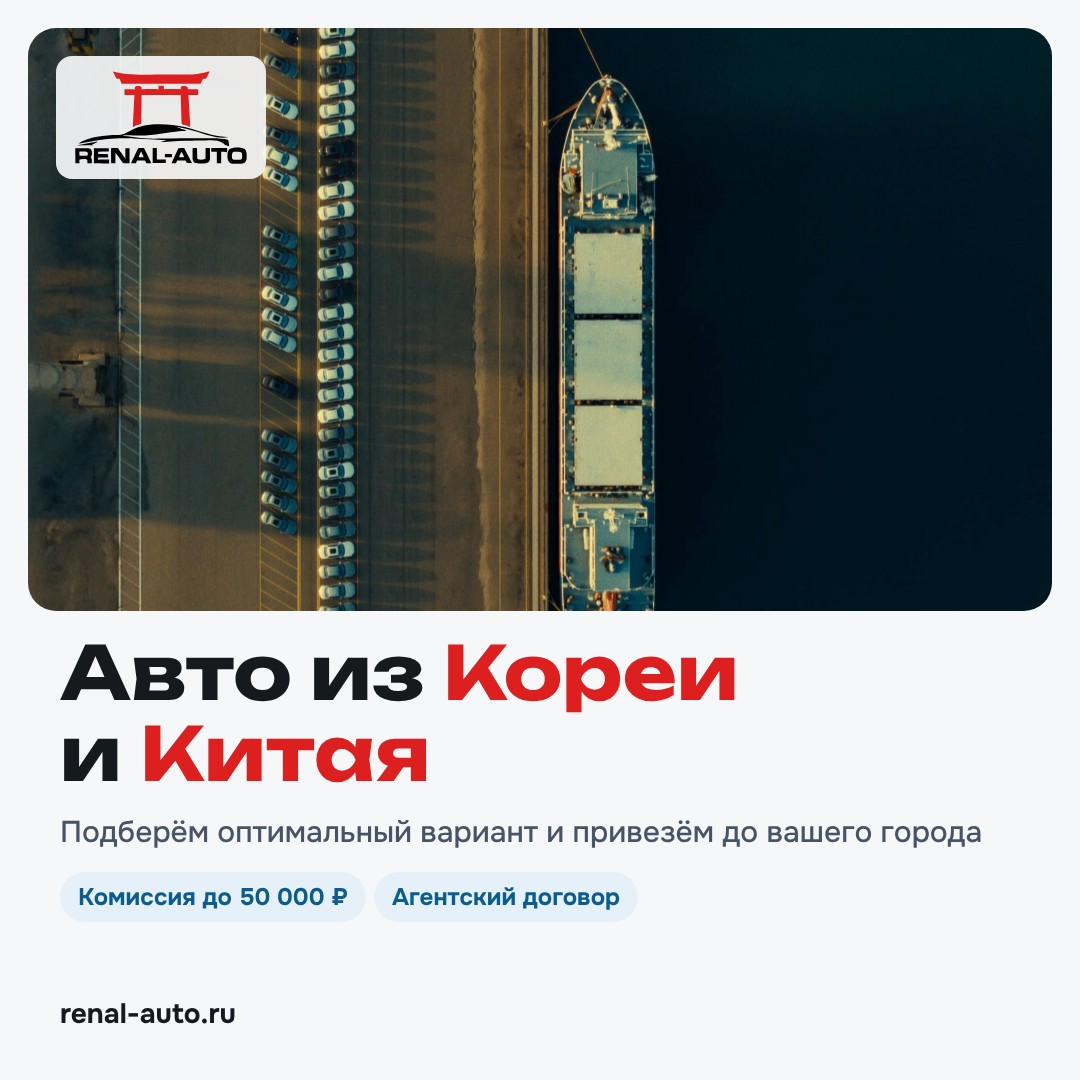
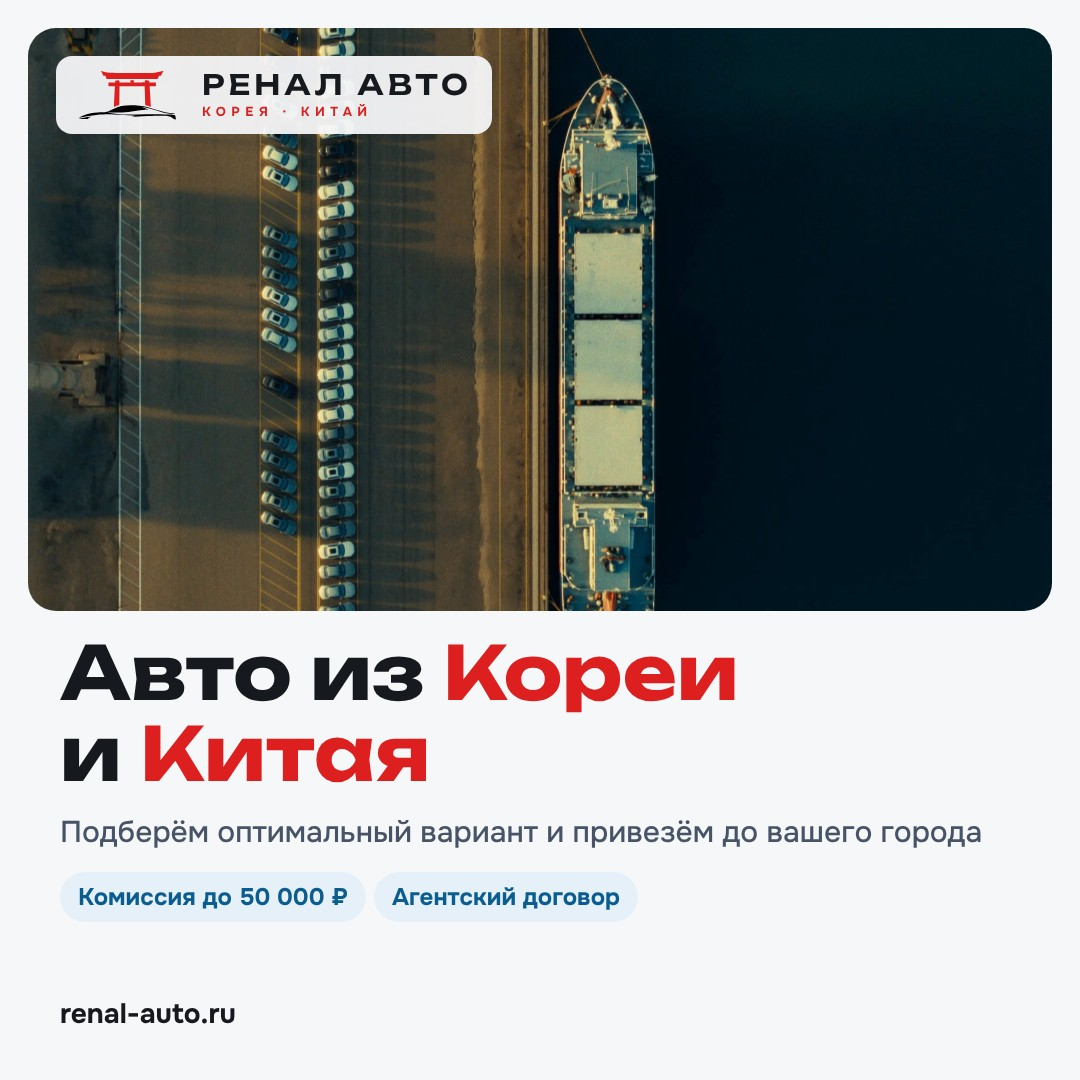
Название по-русски: «Ренал Авто», знак с надписью «КОРЕЯ · КИТАЙ»
Латиница в названии заменена на кириллицу (закон о русском языке в рекламе):
шапка и подвал, заголовки страниц, баннеры Директа, титры ролика с выдач, картинка для соцсетей.
Надпись — Unbounded с разрядкой, под ней красная подпись «Корея · Китай».

Claude-Session: https://claude.ai/code/session_01VpMdufsLMDxyyWuN5c2SYn

Changed region(s): [[0.0306, 0.0306, 0.4583, 0.1833]]

diff --git a/renalauto/static/app.css b/renalauto/static/app.css
@@ -33,7 +33,9 @@ img { max-width: 100%; display: block; }
 /* подвал светлый (card): знак с чёрной машиной; в тёмной теме — с белой */
 footer .logo-mark.on-dark { display: none; } footer .logo-mark.on-light { display: block; }
 @media (prefers-color-scheme: dark) { :root:not([data-theme="light"]) footer .logo-mark.on-dark { display: block; } :root:not([data-theme="light"]) footer .logo-mark.on-light { display: none; } }
-.logo-word { font-weight: 900; font-size: 20px; letter-spacing: .04em; line-height: 1; }
+.logo-word { display: grid; gap: 4px; line-height: 1; }
+.logo-word > span { font: 600 17px/1 Unbounded, Onest, sans-serif; letter-spacing: .14em; }
+.logo-word small { font: 700 9px/1 Onest, system-ui, sans-serif; letter-spacing: .42em; text-transform: uppercase; color: var(--accent); }
 .top .logo { color: #fff; }
 .top nav { display: flex; gap: 20px; flex: 1; flex-wrap: wrap; }
 .top nav a { color: rgba(255,255,255,.72); font-weight: 500; }
@@ -192,7 +194,7 @@ table.leads th, table.leads td { border-bottom: 1px solid var(--line); padding: 
 .cta-bar { display: none; }
 @media (max-width: 700px) {
   .top { position: static; }
-  .logo-word { font-size: 17px; }
+  .logo-word > span { font-size: 15px; }
   .logo-mark { width: 56px; height: 25px; }
   .top .wrap { gap: 8px 14px; padding-top: 8px; padding-bottom: 8px; min-height: 0; }
   .top nav { order: 3; flex-basis: 100%; overflow-x: auto; white-space: nowrap; flex-wrap: nowrap; gap: 14px; }
@@ -336,7 +338,7 @@ body.pop-sheet .cta-bar { display: none; }
 .sms-alt { margin: 10px 0 0; text-align: center; }
 .sms-alt a { color: var(--sea); font-weight: 600; }
 .logo-word { white-space: nowrap; }
-@media (max-width: 420px) { .top .logo-word { font-size: 14px; } .top .logo { gap: 6px; } .top .logo-mark { width: 46px; height: 20px; } }
+@media (max-width: 420px) { .top .logo-word > span { font-size: 13px; letter-spacing: .1em; } .top .logo-word small { font-size: 8px; letter-spacing: .3em; } .top .logo { gap: 6px; } .top .logo-mark { width: 46px; height: 20px; } }
 @media (max-width: 700px) { .max-float { display: none; } }
 .port-section { margin: 32px 0 8px; }
 .port-section-head { display: flex; justify-content: space-between; align-items: baseline; gap: 12px; margin-bottom: 12px; }

diff --git a/renalauto/templates/base.html b/renalauto/templates/base.html
@@ -35,7 +35,7 @@ ym({{ ym_id }},"init",{clickmap:true,trackLinks:true,accurateTrackBounce:true,we
     <a class="logo" href="/" aria-label="{{ company }} — на главную">
       <img class="logo-mark on-dark" src="/static/brand/renal-auto-mark-white.svg" alt="" width="68" height="30">
       <img class="logo-mark on-light" src="/static/brand/renal-auto-mark.svg" alt="" width="68" height="30">
-      <span class="logo-word">{{ company|upper|replace(' ', '-') }}</span>
+      <span class="logo-word"><span>{{ company|upper }}</span><small>Корея · Китай</small></span>
     </a>
     <nav>
       <a href="/?country=KR">Корея</a>
@@ -56,7 +56,7 @@ ym({{ ym_id }},"init",{clickmap:true,trackLinks:true,accurateTrackBounce:true,we
 <footer>
   <div class="wrap foot">
     <div class="foot-brand">
-      <a class="logo" href="/"><img class="logo-mark on-dark" src="/static/brand/renal-auto-mark-white.svg" alt="" width="68" height="30"><img class="logo-mark on-light" src="/static/brand/renal-auto-mark.svg" alt="" width="68" height="30"><span class="logo-word">{{ company|upper|replace(' ', '-') }}</span></a>
+      <a class="logo" href="/"><img class="logo-mark on-dark" src="/static/brand/renal-auto-mark-white.svg" alt="" width="68" height="30"><img class="logo-mark on-light" src="/static/brand/renal-auto-mark.svg" alt="" width="68" height="30"><span class="logo-word"><span>{{ company|upper }}</span><small>Корея · Китай</small></span></a>
       <p>Авто из Кореи и Китая под заказ: подбор, проверка, выкуп и доставка до вашего города.</p>
     </div>
     {% block footer_mid %}{% endblock %}

diff --git a/renalauto/config.py b/renalauto/config.py
@@ -69,7 +69,7 @@ class Settings:
     ingest_token: str | None = field(default_factory=lambda: os.getenv("INGEST_TOKEN") or None)
     # Публичный адрес сайта — для ссылок в Telegram и sitemap.xml
     site_url: str = field(default_factory=lambda: os.getenv("SITE_URL", "https://renal-auto.asia:8443").rstrip("/"))
-    company_name: str = field(default_factory=lambda: os.getenv("COMPANY_NAME", "Renal Auto"))
+    company_name: str = field(default_factory=lambda: os.getenv("COMPANY_NAME", "Ренал Авто"))
     company_phone: str | None = field(default_factory=lambda: os.getenv("COMPANY_PHONE", "+7 (914) 066-88-08") or None)
     # бесплатный номер 8 800 — в шапке и подвале; мобильный COMPANY_PHONE остаётся для SMS и в подвале
     company_hotline: str | None = field(default_factory=lambda: os.getenv("COMPANY_HOTLINE", "8 800 250-57-78") or None)
